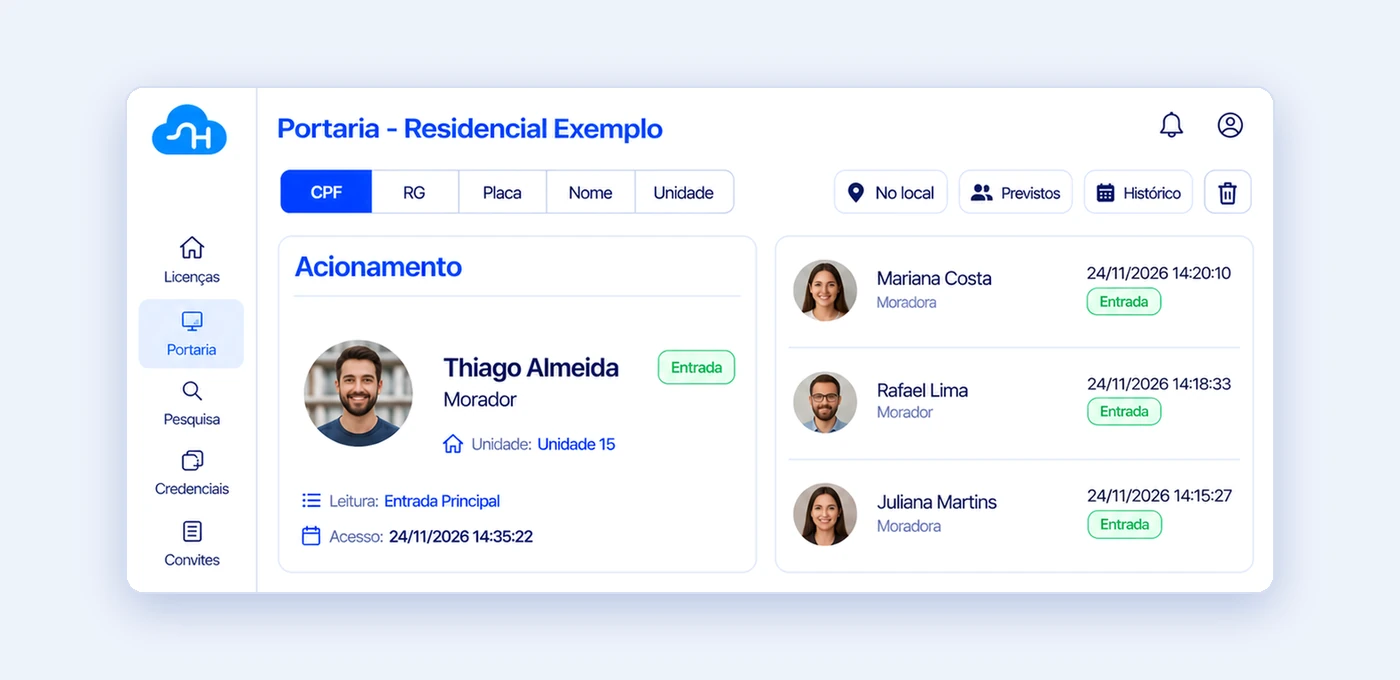
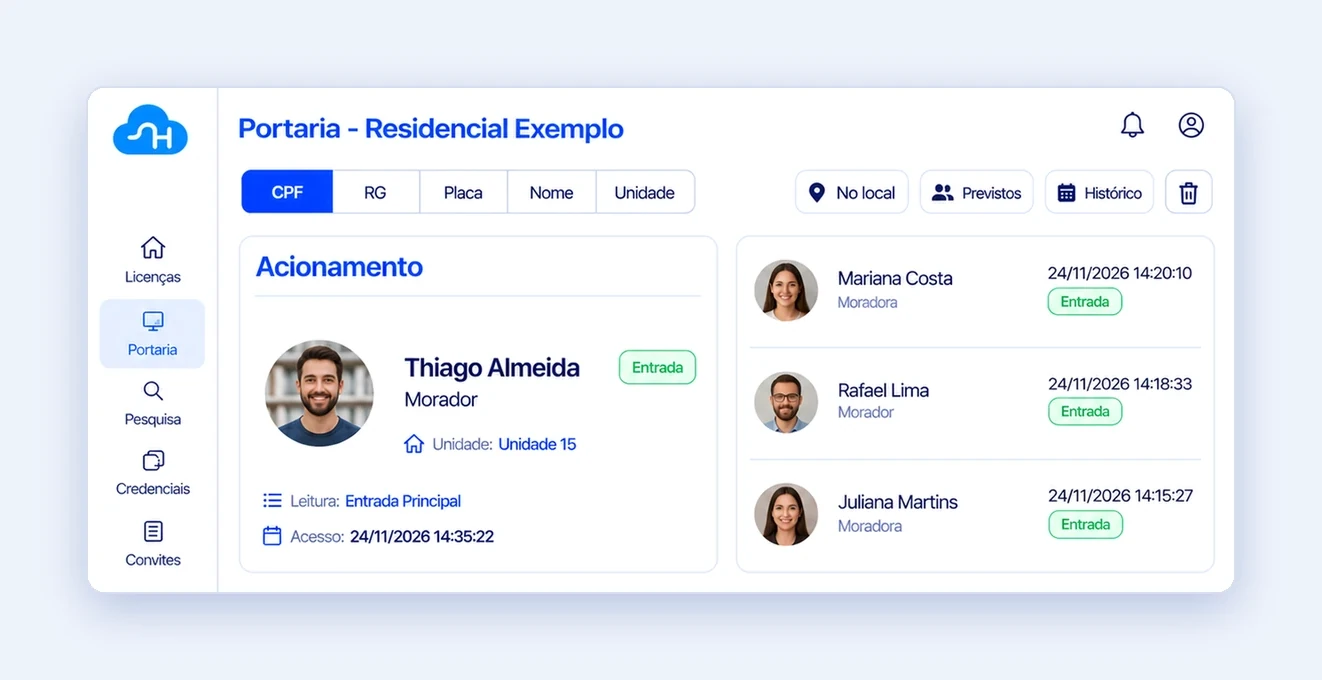
feat: add smart locker and redesign condo and integrations

diff --git a/src/components/ui/IntegrationsHub.jsx b/src/components/ui/IntegrationsHub.jsx
@@ -6,7 +6,10 @@ import htechCloud from "../../assets/logo/htech-nuvem.png";
  *
  * Props:
  *  - integrations: lista de { label, icon } (metade vai para a esquerda, metade para a direita)
- *  - title, description, linkLabel, href
+ *  - title, description
+ *  - eyebrow: texto pequeno acima do título
+ *  - benefits: lista curta de vantagens, mostradas em etiquetas embaixo da descrição
+ *  - note: frase de destaque no final (ex.: integrações sob medida)
  */
 
 // Ícones genéricos (traço). Para usar outro, adicione aqui e use a chave em `icon`.
@@ -82,13 +85,13 @@ function Node({ label, icon, index = 0 }) {
   return (
     <div className="hub-node relative shrink-0" style={{ animationDelay: `${index * -1.3}s` }}>
       {/* Anel de vidro + círculo branco com o ícone */}
-      <div className="grid h-[68px] w-[68px] place-items-center rounded-full border border-white/40 bg-white/10 shadow-[0_10px_30px_rgba(4,12,50,0.35)] backdrop-blur-sm">
-        <div className="grid h-12 w-12 place-items-center rounded-full bg-white text-corp shadow-[inset_0_-3px_8px_rgba(21,61,205,0.15)]">
-          <Icon name={icon} className="h-6 w-6" />
+      <div className="grid h-[68px] w-[68px] place-items-center rounded-full border border-white/40 bg-white/10 shadow-[0_10px_30px_rgba(4,12,50,0.35)] backdrop-blur-sm md:h-[84px] md:w-[84px]">
+        <div className="grid h-12 w-12 place-items-center rounded-full bg-white text-corp shadow-[inset_0_-3px_8px_rgba(21,61,205,0.15)] md:h-[60px] md:w-[60px]">
+          <Icon name={icon} className="h-6 w-6 md:h-7 md:w-7" />
         </div>
       </div>
       {/* Nome numa pílula embaixo do círculo, sem mudar a altura do item */}
-      <span className="absolute left-1/2 top-full mt-2.5 -translate-x-1/2 whitespace-nowrap rounded-full border border-white/20 bg-[#071433]/50 px-2.5 py-0.5 text-xs font-medium text-white/90 backdrop-blur-sm">
+      <span className="absolute left-1/2 top-full mt-2.5 -translate-x-1/2 whitespace-nowrap rounded-full border border-white/20 bg-[#071433]/50 px-2.5 py-0.5 text-xs font-medium text-white/90 backdrop-blur-sm md:px-3 md:py-1 md:text-sm">
         {label}
       </span>
     </div>
@@ -120,7 +123,7 @@ function HubCore({ title, small = false, className = "" }) {
       <span aria-hidden="true" className="absolute -inset-3 rounded-full border border-white/25" />
       <div
         className={`hub-ring relative grid place-items-center rounded-full bg-[radial-gradient(circle_at_30%_25%,#1b3a9e,#071433_70%)] shadow-[0_0_50px_rgba(255,255,255,0.4),inset_0_0_30px_rgba(90,176,255,0.25)] ${
-          small ? "h-28 w-28" : "h-36 w-36"
+          small ? "h-28 w-28" : "h-44 w-44"
         }`}
         role="img"
         aria-label={title}
@@ -128,10 +131,10 @@ function HubCore({ title, small = false, className = "" }) {
         {/* Logo da Htech num círculo branco */}
         <span
           className={`grid place-items-center rounded-full bg-white shadow-[0_0_24px_rgba(255,255,255,0.5)] ${
-            small ? "h-16 w-16" : "h-20 w-20"
+            small ? "h-16 w-16" : "h-24 w-24"
           }`}
         >
-          <img src={htechCloud} alt="" className={small ? "w-10" : "w-12"} />
+          <img src={htechCloud} alt="" className={small ? "w-10" : "w-14"} />
         </span>
       </div>
     </div>
@@ -219,8 +222,9 @@ export default function IntegrationsHub({
   integrations = [],
   title = "Integrações",
   description,
-  linkLabel = "Ver integrações",
-  href = "#",
+  eyebrow,
+  benefits = [],
+  note,
   className = "",
 }) {
   const half = Math.ceil(integrations.length / 2);
@@ -228,7 +232,13 @@ export default function IntegrationsHub({
   const right = integrations.slice(half);
 
   return (
-    <div className={`text-white ${className}`}>
+    // Painel em destaque: vidro azul com borda clara e brilho, para o hub não se perder no fundo da seção
+    <div
+      className={`relative isolate overflow-hidden rounded-[2rem] border border-white/20 bg-[linear-gradient(160deg,rgba(255,255,255,0.14),rgba(255,255,255,0.04))] px-5 py-10 text-white shadow-[0_30px_80px_-20px_rgba(4,12,50,0.6),inset_0_1px_0_rgba(255,255,255,0.25)] md:px-10 md:py-14 ${className}`}
+    >
+      {/* Brilhos de fundo */}
+      <span aria-hidden="true" className="pointer-events-none absolute -top-32 left-1/2 -z-10 h-72 w-[70%] -translate-x-1/2 rounded-full bg-[#5AB0FF]/30 blur-3xl" />
+      <span aria-hidden="true" className="pointer-events-none absolute -bottom-40 left-1/2 -z-10 h-72 w-[60%] -translate-x-1/2 rounded-full bg-white/10 blur-3xl" />
       <style>{`
         .hub-line {
           background: repeating-linear-gradient(90deg, #ffffff 0 10px, transparent 10px 34px);
@@ -312,15 +322,39 @@ export default function IntegrationsHub({
       </div>
 
       {/* Texto */}
-      <div className="mt-10 flex flex-col items-center gap-2 text-center md:mt-14">
-        <h4 className="text-3xl font-semibold uppercase tracking-wide">
+      <div className="mt-12 flex flex-col items-center gap-3 text-center md:mt-16">
+        {eyebrow && (
+          <span className="rounded-full border border-white/30 bg-white/10 px-3 py-1 text-xs font-semibold uppercase tracking-[0.2em] text-[#A8D4FF]">
+            {eyebrow}
+          </span>
+        )}
+        <h4 className="text-4xl font-bold uppercase tracking-wide md:text-5xl">
           <span className="bg-[linear-gradient(135deg,#ffffff_10%,#5AB0FF)] bg-clip-text text-transparent">{title}</span>
         </h4>
-        {description && <p className="max-w-2xl text-white/80">{description}</p>}
-        {linkLabel && (
-          <a href={href} className="font-semibold text-white/90 underline-offset-4 transition hover:text-white hover:underline">
-            {linkLabel} →
-          </a>
+        {/* text-balance: distribui as palavras entre as linhas, sem deixar uma palavra sozinha na última */}
+        {description && <p className="max-w-2xl text-balance text-lg text-white/85">{description}</p>}
+        {benefits.length > 0 && (
+          <ul className="mt-2 flex flex-wrap justify-center gap-2">
+            {benefits.map((b) => (
+              <li
+                key={b}
+                className="flex items-center gap-2 rounded-full border border-white/25 bg-white/10 px-3.5 py-1.5 text-sm font-medium text-white"
+              >
+                <svg viewBox="0 0 24 24" className="h-4 w-4 text-[#A8D4FF]" fill="none" stroke="currentColor" strokeWidth="2.4" strokeLinecap="round" strokeLinejoin="round" aria-hidden="true">
+                  <path d="M5 12l5 5L20 7" />
+                </svg>
+                {b}
+              </li>
+            ))}
+          </ul>
+        )}
+        {note && (
+          <p className="mt-4 flex max-w-2xl items-start gap-2.5 rounded-2xl border border-[#A8D4FF]/40 bg-[#071433]/30 px-4 py-3 text-left text-sm text-white md:items-center md:text-base">
+            <svg viewBox="0 0 24 24" className="mt-0.5 h-5 w-5 shrink-0 text-[#A8D4FF] md:mt-0" fill="none" stroke="currentColor" strokeWidth="2" strokeLinecap="round" strokeLinejoin="round" aria-hidden="true">
+              <path d="M12 3l1.9 5.1L19 10l-5.1 1.9L12 17l-1.9-5.1L5 10l5.1-1.9Z" />
+            </svg>
+            <span>{note}</span>
+          </p>
         )}
       </div>
     </div>

diff --git a/src/components/cards/CondoCard.jsx b/src/components/cards/CondoCard.jsx
@@ -65,6 +65,129 @@ function Cta({ href, children, size = "md" }) {
   );
 }
 
+// Ícones dos tópicos (modo `features`), em traço
+const topicIcons = {
+  door: (
+    <>
+      <path d="M5 21V4a1 1 0 0 1 1-1h10a1 1 0 0 1 1 1v17" />
+      <path d="M3 21h18M13 12h.01" />
+    </>
+  ),
+  qr: (
+    <>
+      <rect x="3" y="3" width="7" height="7" rx="1" />
+      <rect x="14" y="3" width="7" height="7" rx="1" />
+      <rect x="3" y="14" width="7" height="7" rx="1" />
+      <path d="M14 14h3v3h-3zM20 14v.01M14 20h.01M17 20h4v-3" />
+    </>
+  ),
+  camera: (
+    <>
+      <path d="M3 7h12l4-2v10l-4-2H3z" />
+      <path d="M7 13v4M5 17h4" />
+    </>
+  ),
+  box: (
+    <>
+      <path d="M21 8 12 3 3 8v8l9 5 9-5z" />
+      <path d="M3 8l9 5 9-5M12 13v8" />
+    </>
+  ),
+  calendar: (
+    <>
+      <rect x="3" y="5" width="18" height="16" rx="2" />
+      <path d="M3 10h18M8 3v4M16 3v4" />
+    </>
+  ),
+  receipt: (
+    <>
+      <path d="M6 3h12v18l-3-2-3 2-3-2-3 2z" />
+      <path d="M9 8h6M9 12h6" />
+    </>
+  ),
+};
+
+function TopicIcon({ name }) {
+  return (
+    <svg
+      viewBox="0 0 24 24"
+      className="h-[19px] w-[19px]"
+      fill="none"
+      stroke="currentColor"
+      strokeWidth="1.8"
+      strokeLinecap="round"
+      strokeLinejoin="round"
+      aria-hidden="true"
+    >
+      {topicIcons[name] ?? topicIcons.door}
+    </svg>
+  );
+}
+
+/**
+ * Card com tópicos, no mesmo formato dos cards de Empresas (ProductCard), mas no visual escuro de Condomínios:
+ * esquerda = selo, título, descrição e imagem; direita = tópicos com ícone e o botão no final.
+ */
+function TopicsCard({ title, badge, description, features, ctaLabel, href, image, className }) {
+  return (
+    <article
+      className={`relative isolate overflow-hidden rounded-3xl p-6 text-white shadow-[0_24px_50px_rgba(4,12,50,0.35),inset_0_1px_0_rgba(255,255,255,0.12)] md:p-10 ${className}`}
+      style={{ background: "linear-gradient(135deg, #0B1F5E 0%, #0a1846 50%, #071433 100%)" }}
+    >
+      <CardBackground large />
+
+      <div className="relative grid items-center gap-10 lg:grid-cols-[1.2fr_1fr] lg:gap-12">
+        {/* Esquerda */}
+        <div className="flex min-w-0 flex-col">
+          {badge && (
+            <span className="mb-2 self-start rounded bg-white px-2 py-0.5 text-xs font-semibold text-navy">{badge}</span>
+          )}
+          <Title className="text-3xl md:text-4xl">{title}</Title>
+          {description && <p className="mt-3 text-base leading-snug text-white/80">{description}</p>}
+
+          {image && (
+            <div className="relative mt-8">
+              <span
+                aria-hidden="true"
+                className="pointer-events-none absolute left-1/2 top-1/2 aspect-[1.6] w-[110%] -translate-x-1/2 -translate-y-1/2 rounded-full bg-[radial-gradient(closest-side,rgba(10,132,255,0.45),transparent)]"
+              />
+              <img
+                src={image}
+                alt=""
+                className="relative w-full rounded-2xl drop-shadow-[0_20px_24px_rgba(0,0,0,0.45)]"
+              />
+            </div>
+          )}
+        </div>
+
+        {/* Direita: tópicos e botão */}
+        <div className="flex flex-col">
+          <ul className="flex flex-col gap-3">
+            {features.map((f) => (
+              <li
+                key={f.title}
+                className="flex items-center gap-3 rounded-2xl border border-white/10 bg-white/[0.06] py-2.5 pl-2.5 pr-4 leading-snug"
+              >
+                <span className="grid h-[38px] w-[38px] shrink-0 place-items-center rounded-full bg-condo text-navy">
+                  <TopicIcon name={f.icon} />
+                </span>
+                <span>
+                  <b className="font-bold">{f.title}</b>
+                  {f.text && <span className="text-white/75"> {f.text}</span>}
+                </span>
+              </li>
+            ))}
+          </ul>
+
+          <div className="mt-6">
+            <Cta href={href}>{ctaLabel}</Cta>
+          </div>
+        </div>
+      </div>
+    </article>
+  );
+}
+
 export default function CondoCard({
   title,
   badge,
@@ -76,8 +199,27 @@ export default function CondoCard({
   image,
   tall = false,
   reverse = false,
+  imageClassName = "",
+  largeTitle = false,
+  features,
   className = "",
 }) {
+  // Com `features` (tópicos), o card usa o formato dos cards de Empresas
+  if (features?.length) {
+    return (
+      <TopicsCard
+        title={title}
+        badge={badge}
+        description={description}
+        features={features}
+        ctaLabel={ctaLabel}
+        href={href}
+        image={image}
+        className={className}
+      />
+    );
+  }
+
   // Nos cards horizontais, texto e imagem ficam lado a lado só a partir do sm
   const side = !tall;
 
@@ -98,10 +240,10 @@ export default function CondoCard({
             </span>
           )}
 
-          <Title className={tall ? "text-3xl md:text-4xl" : "text-2xl"}>{title}</Title>
+          <Title className={tall || largeTitle ? "text-3xl md:text-4xl" : "text-2xl"}>{title}</Title>
 
           {description && (
-            <p className={`mt-3 leading-snug text-white/80 ${tall ? "text-base" : "text-sm"}`}>{description}</p>
+            <p className={`mt-3 leading-snug text-white/80 ${tall || largeTitle ? "text-base" : "text-sm"}`}>{description}</p>
           )}
 
           {/* Destaques em etiquetas */}
@@ -136,7 +278,7 @@ export default function CondoCard({
           />
           {image ? (
             // A imagem fica "por cima" do espaço (absolute), então não aumenta a altura do card
-            <div className={`relative h-full overflow-hidden rounded-2xl ${tall ? "min-h-64" : "min-h-40"}`}>
+            <div className={`relative h-full overflow-hidden rounded-2xl ${tall ? "min-h-64" : "min-h-40"} ${imageClassName}`}>
               <img
                 src={image}
                 alt=""

diff --git a/src/components/sections/CondoSolutions.jsx b/src/components/sections/CondoSolutions.jsx
@@ -1,6 +1,7 @@
 import SectionHeader from "../ui/SectionHeader";
 import CondoCard from "../cards/CondoCard";
 import smartBox from "../../assets/services/smartbox.webp";
+import smartLocker from "../../assets/services/smartlocker.webp";
 import intercom from "../../assets/services/intercom.webp";
 import accessControl from "../../assets/services/access-control.webp";
 import cftv from "../../assets/services/cftv.webp";
@@ -9,9 +10,10 @@ import { whatsappSolutionLink } from "../../config/contact";
 
 // TODO: revisar os textos (exemplos)
 // Ordem = posição na grade (no computador, 12 colunas):
-//   Fileira de cima: Smart Box e App de Gestão lado a lado, do mesmo tamanho (cards em pé)
-//   Embaixo: Interfonia e Controle de Acesso empilhados à esquerda (cards deitados)
-//            e CFTV alto à direita, ocupando as duas fileiras
+//   Fileira de cima: Smart Box e Smart Locker (encomendas) lado a lado, do mesmo tamanho (cards em pé)
+//   Meio: Interfonia e Controle de Acesso empilhados à esquerda (cards deitados)
+//         e CFTV alto à direita, ocupando as duas fileiras
+//   Final: App de Gestão numa faixa na largura toda (card deitado)
 // O href de cada card abre o WhatsApp com o nome da solução na mensagem.
 const cards = [
   {
@@ -26,13 +28,14 @@ const cards = [
     image: smartBox,
   },
   {
-    title: "App de\nGestão",
-    description: "Comunicados, reservas de áreas comuns, visitantes e boletos do condomínio em um só app.",
-    highlights: ["Comunicados", "Reservas", "Visitantes", "Boletos"],
-    href: whatsappSolutionLink("App de Gestão", "condominio"),
+    title: "Smart\nLocker",
+    badge: "Novo",
+    description: "Armários inteligentes no hall para receber várias encomendas ao mesmo tempo, com retirada por senha.",
+    highlights: ["Vários tamanhos", "Retirada por senha", "Aviso no celular"],
+    href: whatsappSolutionLink("Smart Locker", "condominio"),
     tall: true,
     className: "lg:col-span-6",
-    image: appGestao,
+    image: smartLocker,
   },
   {
     title: "Interfonia\nSem Fio",
@@ -59,6 +62,22 @@ const cards = [
     reverse: true,
     className: "lg:col-span-6",
     image: accessControl,
+  },
+  {
+    title: "App de\nGestão",
+    description: "O condomínio inteiro no celular: mais segurança e praticidade para moradores, portaria e síndico.",
+    // Tópicos no mesmo formato dos cards de Empresas
+    features: [
+      { icon: "door", title: "Portas e portões no celular:", text: "abertura remota e histórico de cada acesso." },
+      { icon: "qr", title: "Visitantes:", text: "convites por QR Code e aviso direto para a portaria." },
+      { icon: "camera", title: "Câmeras ao vivo:", text: "acompanhe as áreas do condomínio pelo app." },
+      { icon: "box", title: "Encomendas:", text: "aviso no celular quando chegar algo para você." },
+      { icon: "calendar", title: "Reservas e avisos:", text: "agende áreas comuns e acompanhe o mural do condomínio." },
+      { icon: "receipt", title: "Chamados e boletos:", text: "abra chamados de manutenção e tire a 2ª via do boleto." },
+    ],
+    href: whatsappSolutionLink("App de Gestão", "condominio"),
+    className: "lg:col-span-12",
+    image: appGestao,
   },
 ];
 

diff --git a/src/components/sections/Faq.jsx b/src/components/sections/Faq.jsx
@@ -27,9 +27,9 @@ const faqs = [
   },
   {
     type: "Condomínios",
-    question: "Como funciona o Smart Box no dia a dia?",
+    question: "Qual a diferença entre o Smart Box e o Smart Locker?",
     answer:
-      "O entregador deposita a encomenda em um dos armários e o morador recebe um aviso no celular com uma senha única. Com ela, retira a encomenda quando quiser, a qualquer hora, sem depender da portaria.",
+      "O Smart Box é uma caixa de entregas instalada na entrada do condomínio: o entregador deposita a encomenda e o morador retira com uma senha, a qualquer hora. O Smart Locker é um conjunto de armários inteligentes no hall, com portas de vários tamanhos, que recebe várias encomendas ao mesmo tempo. Em ambos, o morador recebe um aviso no celular e retira sem depender da portaria.",
   },
   {
     type: "Todos",

diff --git a/src/components/sections/CorporateSolutions.jsx b/src/components/sections/CorporateSolutions.jsx
@@ -160,8 +160,9 @@ export default function CorporateSolutions() {
           <IntegrationsHub
             className="reveal md:col-span-2"
             integrations={integrations}
-            description="Conecta seu CRM a outros sistemas e plataformas, sincroniza informações e automatiza processos para tornar sua operação mais prática e eficiente."
-            href="#integracoes"
+            eyebrow="Seus sistemas conversando entre si"
+            description="Conectamos a nossa plataforma aos sistemas que a sua empresa já usa: as informações ficam sincronizadas e os processos acontecem sozinhos, sem retrabalho."
+            benefits={["Dados sincronizados", "Processos automáticos", "Menos retrabalho"]}
           />
         </div>
 
